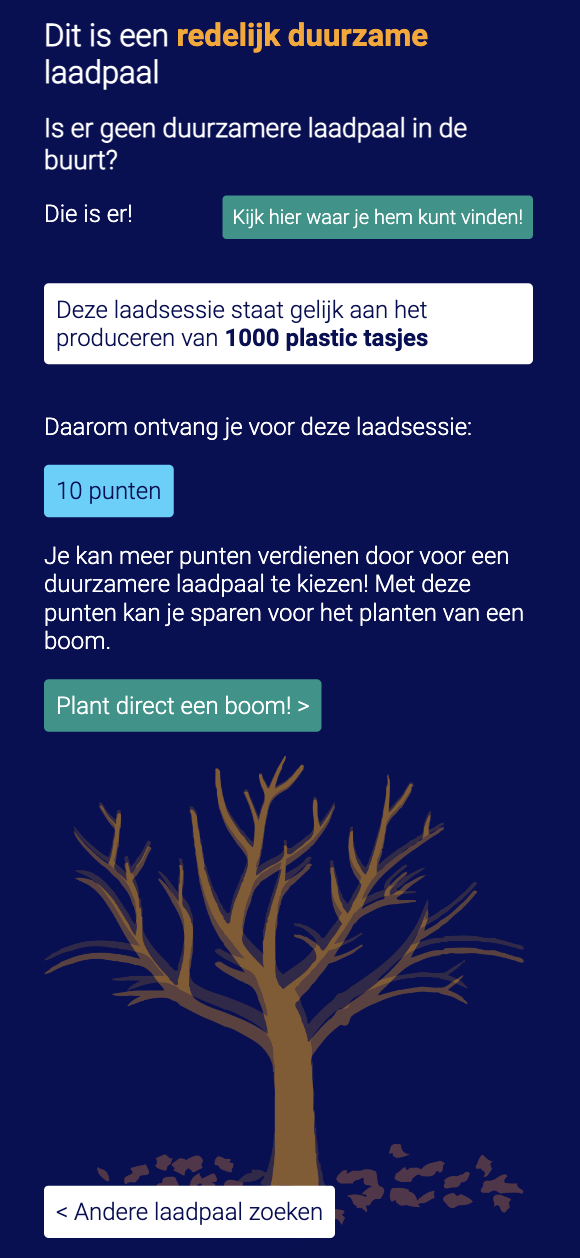
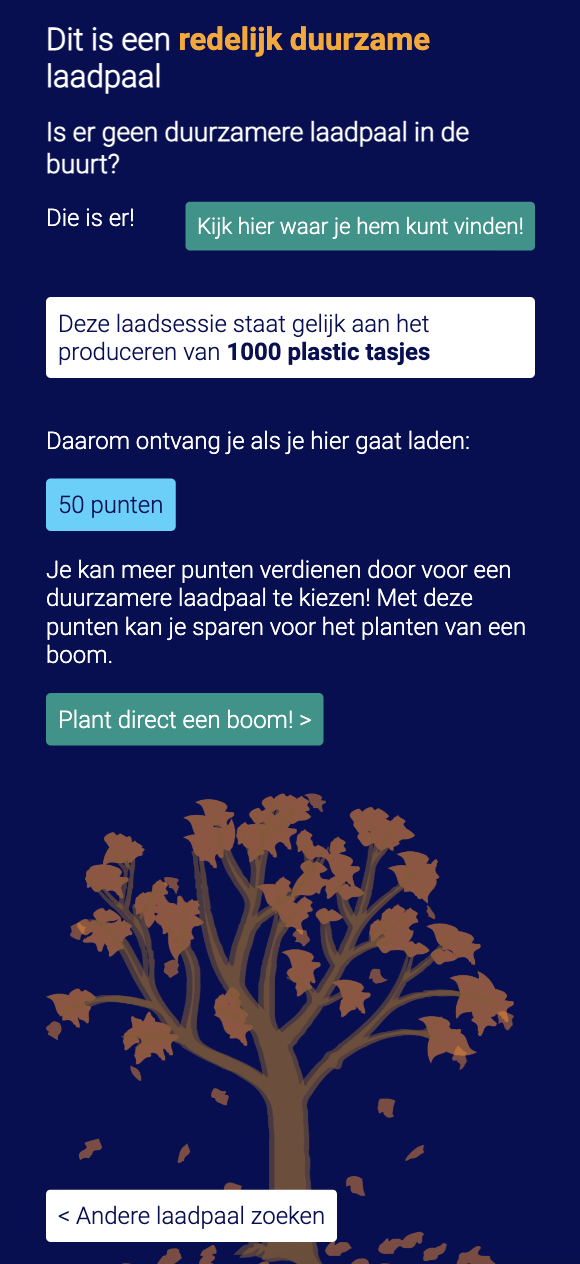
update readme

diff --git a/README.md b/README.md
@@ -109,6 +109,16 @@ Sustainable | Pretty sunstainable | Unsustainable
 :-------------------------:|:-------------------------:|:-------------------------:
 ![Map](/public/images/pagina-duurzaam.png) |  ![Popup](/public/images/pagina-redelijkduurzaam.png) |  ![Popup](/public/images/pagina-nietduurzaam.png) 
 
+On the page of the sustainable charging station, I reward the user with choosing this charging station by giving him 100 points, in order to eventually be able to plant a tree. On the other pages I try to motivate the user as much as possible to choose a better charging station. For example, they get fewer or no points. And I try to get them to go to another charging station again by showing a green charging station nearby on a map.
+
+Then there is the last page, the profile page.
+
+<img src="/public/images/pagina-profiel.png" width="300">
+
+Here the user can see how many points he has already saved and how many he still needs to be able to plant a tree. And it also shows the last charging sessions.
+
+That is the application I created to inform the user on which charging station in the most sustainable. And where I motivate the user to pick for the most sustainable one.
+
 ## 🔍 Getting started
 Before you can start you need to follow the installation
 
